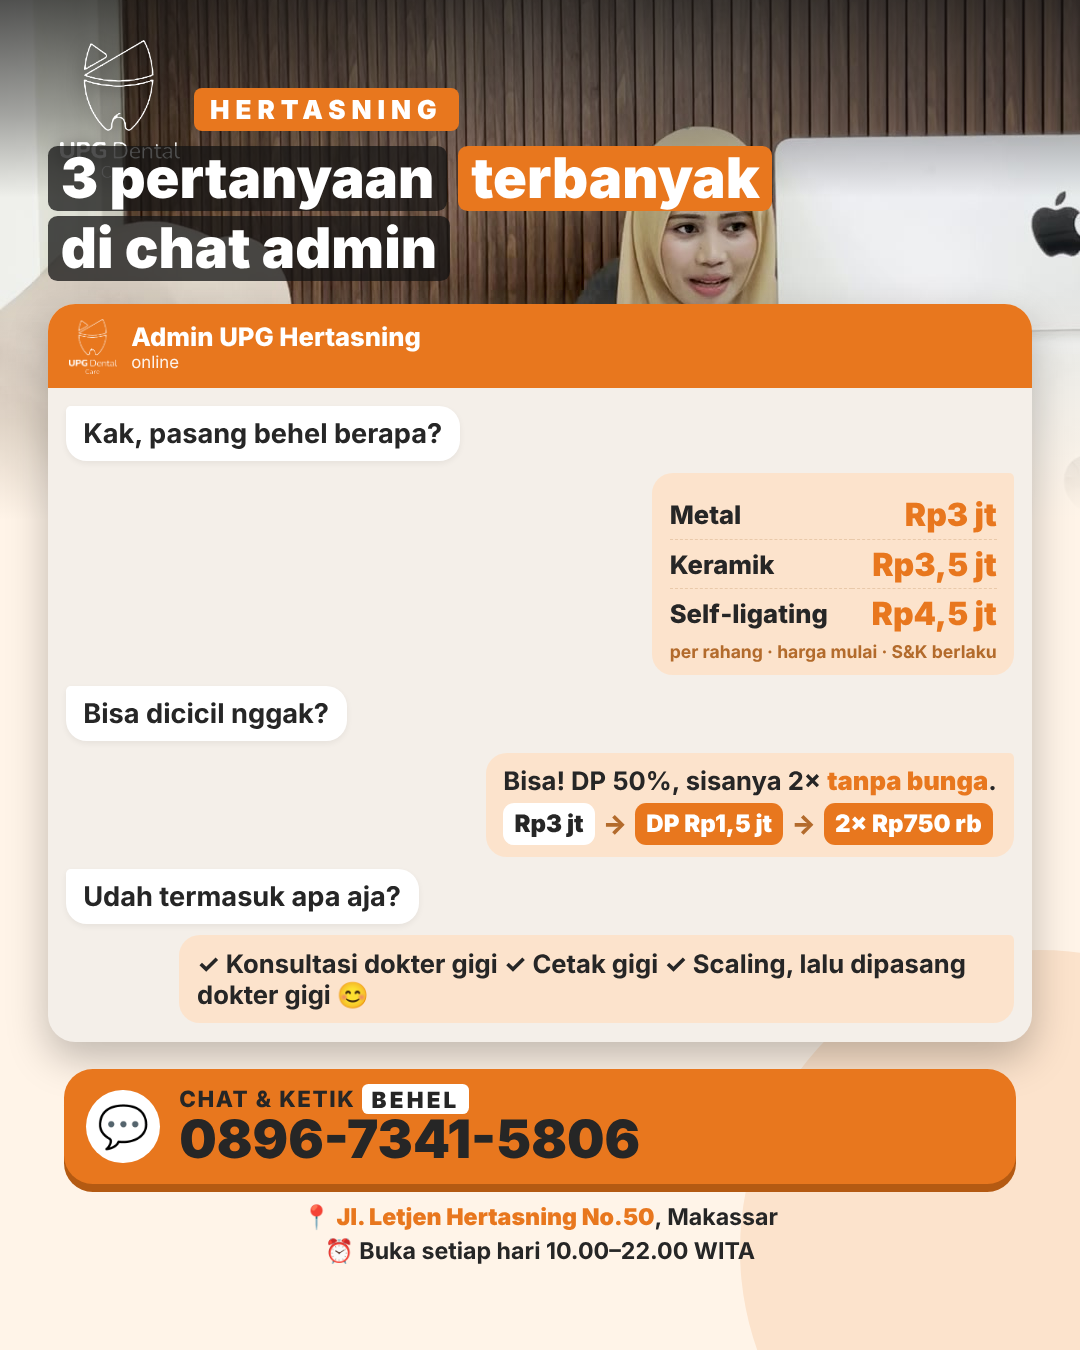
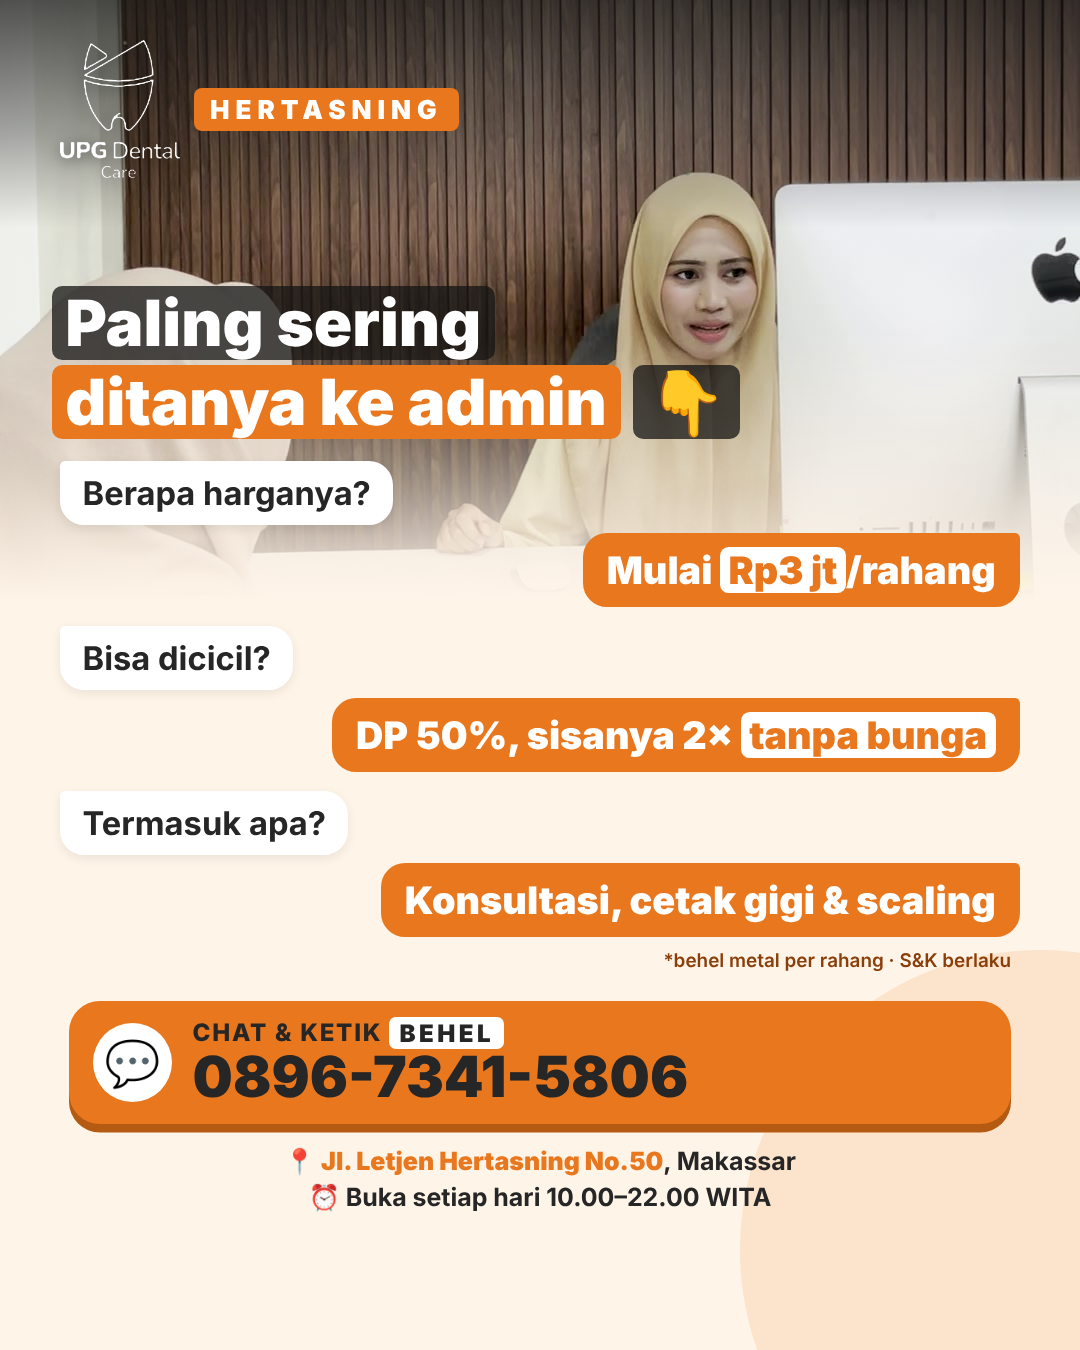
Poster Hertasning disederhanakan (revisi terlalu ramai)
Claude-Session: https://claude.ai/code/session_016b8dWETedFzgv6tqt2x8F6

diff --git a/.claude/skills/upg-hertasning-video/scripts/poster/poster.html b/.claude/skills/upg-hertasning-video/scripts/poster/poster.html
@@ -49,6 +49,12 @@ body.story{height:1920px}body.feed{height:1350px}
 .calc span{background:#fff;border-radius:14px;padding:8px 14px;font-size:30px;font-weight:900}
 .calc span.o{background:var(--o);color:#fff}
 .calc i{font-style:normal;font-weight:900;color:#b36b2c}
+.inc{margin:28px 80px 0;text-align:center;font-size:34px;font-weight:700}.inc b{color:#8a3f0a}
+.qa{margin:22px 70px 0;display:flex;flex-direction:column;gap:10px}
+.qq{align-self:flex-start;background:#fff;border-radius:6px 28px 28px 28px;padding:14px 26px;font-size:38px;font-weight:700;box-shadow:0 4px 12px rgba(0,0,0,.08)}
+.aa{align-self:flex-end;background:var(--o);color:#fff;border-radius:28px 6px 28px 28px;padding:16px 28px;font-size:44px;font-weight:900}
+.aa b{background:#fff;color:var(--o);padding:0 10px;border-radius:10px}
+.fn2{margin:14px 80px 0;text-align:right;font-size:22px;color:#8a3f0a;font-weight:600}
 </style></head><body><div id="r"></div>
 <script>
 const Q=new URLSearchParams(location.search);const AD=Q.get('ad'),SZ=Q.get('sz');document.body.className=SZ;
@@ -57,29 +63,23 @@ const brand=t=>`<div class="brand" style="top:${t}px"><img class="lgw" src="logo
 const cta=`<div class="cta"><div class="wa">💬</div><div><div class="t1">CHAT &amp; KETIK <b>BEHEL</b></div><div class="t2">0896-7341-5806</div></div></div>`;
 const loc=`<div class="loc">📍 <b>Jl. Letjen Hertasning No.50</b>, Makassar<br>⏰ Buka setiap hari 10.00–22.00 WITA</div>`;
 let h='';
+const incl=`<div class="inc">Sudah termasuk <b>konsultasi, cetak gigi &amp; scaling</b></div>`;
 if(AD==='pov'){
- const hh=story?1000:700;
+ const hh=story?1060:720;
  h=`<img class="hero" src="behel_3489.jpg" style="height:${hh}px;object-position:50% 30%"><div class="fade" style="height:${hh}px"></div>${brand(story?230:40)}
- <div class="wrap" style="top:${story?560:290}px;--z:${story?1:.82}">
+ <div class="wrap" style="top:${story?720:380}px;--z:${story?1:.86}">
   <div class="mk"><p><span>Pasang behel</span><br><em>nggak harus nunggu</em><br><em>uang kumpul</em> <span>semua</span></p></div>
   <div class="price"><div class="m">MULAI</div><div class="n">Rp3 jt<small>/rahang</small></div><div class="pl">DP 50% · sisanya cicil 2× <b>tanpa bunga</b></div><div class="fn">*behel metal per rahang · S&amp;K berlaku</div></div>
-  <div class="steps"><div><b>1</b><span>Konsultasi</span></div><div><b>2</b><span>Cetak gigi</span></div><div><b>3</b><span>Scaling</span></div><div><b>4</b><span>Dipasang</span></div></div>
-  <div class="ben"><div class="t">Nunggunya nyaman:</div><div>📖 Pojok baca</div><div>🍪 Camilan</div><div>🍦 Es krim</div><div>🧸 Pojok main anak</div><div>🕌 Mushola</div></div>
-  ${cta}${loc}</div>`;
+  ${incl}${cta}${loc}</div>`;
 }else{
- const hh=story?760:520;
+ const hh=story?900:600;
  h=`<img class="hero" src="suasana_3501.jpg" style="height:${hh}px;object-position:50% 57%"><div class="fade" style="height:${hh}px"></div>${brand(story?230:40)}
- <div class="wrap" style="top:${story?420:180}px;--z:${story?1:.8}">
-  <div class="mk" style="margin-bottom:26px"><p style="font-size:70px"><span>3 pertanyaan</span> <em>terbanyak</em><br><span>di chat admin</span></p></div>
-  <div class="chat"><div class="hd"><div class="av"><img src="logo_upg_putih.png"></div><div><div class="nm">Admin UPG Hertasning</div><div class="on">online</div></div></div>
-   <div class="bd">
-    <div class="in">Kak, pasang behel berapa?</div>
-    <div class="out"><table class="tbl"><tr><td>Metal</td><td>Rp3 jt</td></tr><tr><td>Keramik</td><td>Rp3,5 jt</td></tr><tr><td>Self&#8209;ligating</td><td>Rp4,5 jt</td></tr></table><div style="font-size:22px;color:#b36b2c;margin-top:4px">per rahang · harga mulai · S&amp;K berlaku</div></div>
-    <div class="in">Bisa dicicil nggak?</div>
-    <div class="out">Bisa! DP 50%, sisanya 2× <b>tanpa bunga</b>.<div class="calc"><span>Rp3 jt</span><i>→</i><span class="o">DP Rp1,5 jt</span><i>→</i><span class="o">2× Rp750 rb</span></div></div>
-    <div class="in">Udah termasuk apa aja?</div>
-    <div class="out">✓ Konsultasi dokter gigi ✓ Cetak gigi ✓ Scaling, lalu dipasang dokter gigi 😊</div>
-   </div></div>
+ <div class="wrap" style="top:${story?640:330}px;--z:${story?1:.86}">
+  <div class="mk"><p style="font-size:74px"><span>Paling sering</span><br><em>ditanya ke admin</em> <span>👇</span></p></div>
+  <div class="qa"><div class="qq">Berapa harganya?</div><div class="aa">Mulai <b>Rp3 jt</b>/rahang</div></div>
+  <div class="qa"><div class="qq">Bisa dicicil?</div><div class="aa">DP 50%, sisanya 2× <b>tanpa bunga</b></div></div>
+  <div class="qa"><div class="qq">Termasuk apa?</div><div class="aa">Konsultasi, cetak gigi &amp; scaling</div></div>
+  <div class="fn2">*behel metal per rahang · S&amp;K berlaku</div>
   ${cta}${loc}</div>`;
 }
 document.getElementById('r').innerHTML=`<div class="blob" style="width:600px;height:600px;right:-260px;bottom:-200px"></div>`+h;

diff --git a/.claude/skills/upg-hertasning-video/SKILL.md b/.claude/skills/upg-hertasning-video/SKILL.md
@@ -70,4 +70,5 @@ Belum diunduh: Scalling Hertasning (`1zY_xRIKdMUMNMhqjuQ5EWAabQc9z8GRR`, 20 klip
 ## 6. Poster Hertasning (19 Nov 2026)
 - `scripts/poster/poster.html?ad=pov|chat&sz=story|feed` + `shot.js` → `output/Hertasning_BehelPOV_*` & `Hertasning_BehelChat_*` (Story 1080x1920, Feed 1080x1350).
 - Gaya Hertasning (beda Antang): latar krem-peach #FFF4E8, logo putih langsung di atas gradasi gelap (TANPA kotak putih) + label oranye HERTASNING, judul marker oranye/gelap, kartu harga oranye dengan pil "DP 50% · cicil 2× tanpa bunga", tiket langkah 1–4, pil benefit, kartu chat (iklan chat).
+- **Revisi Pak Dir "terlalu ramai"**: poster cukup 1 pesan utama + harga + 1 baris isi paket + CTA + lokasi. Tiket langkah, pil benefit, tabel harga & kalkulator DIBUANG dari poster (cukup di video). Iklan chat → 3 tanya-jawab singkat.
 - Pelajaran audit: cap bulat "CICIL" menabrak judul/harga → diganti pil di dalam kartu; hero 3501 object-position 57% supaya wajah admin tidak tertutup judul.
